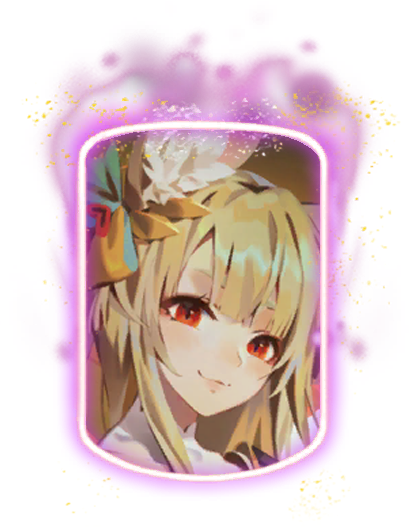
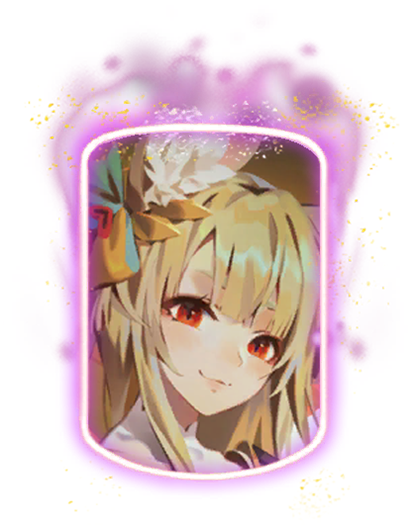
Add Shirley and Izumi to million infuse - Removed harvest infuse - Adjust images for Shirley, Dagger, Angelia, Dylan, Izumi - Updated rates for million infuse

diff --git a/src/assets/infuse/million.js b/src/assets/infuse/million.js
@@ -1,37 +1,41 @@
 export default {
   sr: {
-    fredrica: 0.02,
-    sharice: 0.02,
-    sione: 0.02,
-    charle: 0.02,
-    leah: 0.02,
-    yamitsuki: 0.02,
-    lisa: 0.02,
-    nigel: 0.1,
-    aosta: 0.1,
-    lio: 0.1,
-    theodore: 0.1,
-    experiment: 0.1,
-    jahan: 0.1,
-    'yan-bo': 0.1,
-    crushfang: 0.1,
-    dylan: 0.15,
-    hestia: 0.15,
-    kittyeyes: 0.15,
-    roger: 0.15,
-    koll: 0.15,
-    fatima: 0.15,
-    karnulla: 0.15,
-    ned: 0.15,
-    puggi: 0.15,
-    golemwalt: 0.15,
-    pang: 0.15,
-    naya: 0.15,
-    tica: 0.15,
-    dagger: 0.15,
-    angelia: 0.15,
+    izumi: 0.05,
+    shirley: 0.05,
+    fredrica: 0.05,
+    sharice: 0.05,
+    sione: 0.05,
+    charle: 0.05,
+    leah: 0.05,
+    yamitsuki: 0.05,
+    lisa: 0.05,
+    nigel: 0.25,
+    aosta: 0.25,
+    lio: 0.25,
+    theodore: 0.25,
+    experiment: 0.25,
+    jahan: 0.25,
+    'yan-bo': 0.25,
+    crushfang: 0.25,
+    dylan: 0.5,
+    hestia: 0.5,
+    kittyeyes: 0.5,
+    roger: 0.5,
+    koll: 0.5,
+    fatima: 0.5,
+    karnulla: 0.5,
+    ned: 0.5,
+    puggi: 0.5,
+    golemwalt: 0.5,
+    pang: 0.5,
+    naya: 0.5,
+    tica: 0.5,
+    dagger: 0.5,
+    angelia: 0.5,
   },
   r: {
+    izumi: 0.2,
+    shirley: 0.2,
     fredrica: 0.2,
     sharice: 0.2,
     sione: 0.2,
@@ -64,14 +68,17 @@ export default {
     angelia: 0.6,
   },
   n: {
-    hestia: 8.268,
-    kittyeyes: 8.268,
-    roger: 8.268,
-    koll: 8.268,
-    fatima: 8.268,
-    karnulla: 8.268,
-    ned: 8.268,
-    puggi: 8.268,
-    golemwalt: 8.268,
+    dylan: 5.813,
+    hestia: 5.813,
+    kittyeyes: 5.813,
+    roger: 5.813,
+    koll: 5.813,
+    fatima: 5.813,
+    karnulla: 5.813,
+    ned: 5.813,
+    puggi: 5.813,
+    golemwalt: 5.813,
+    dagger: 5.813,
+    angelia: 5.813,
   },
 };

diff --git a/src/commands/infuse/index.js b/src/commands/infuse/index.js
@@ -186,16 +186,6 @@ export const millionInfuseCommand = (message, splitContent) => {
     }
     return true;
   }
-  if (splitContent[0] === `${standardPrefix}infuse-harvest`) {
-    if (splitContent.length > 1 && splitContent[1] === '10') {
-      console.log(harvestInfuseTable);
-      console.log(harvestInfuseTableSROnly);
-      rollMany(message, harvestInfuseTable, 10, true, false, splitContent[2], harvestInfuseTableSROnly);
-    } else {
-      rollOne(message, harvestInfuseTable);
-    }
-    return true;
-  }
   return false;
 };
 
